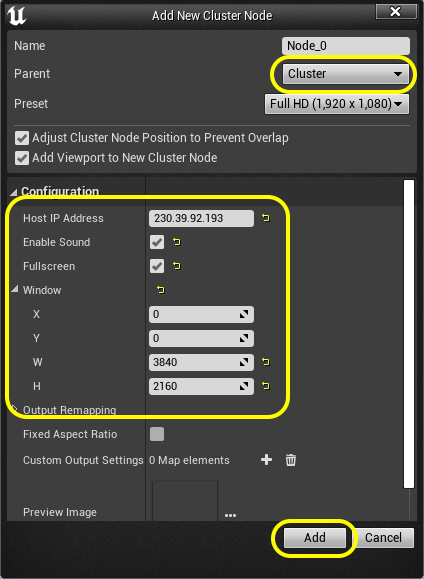
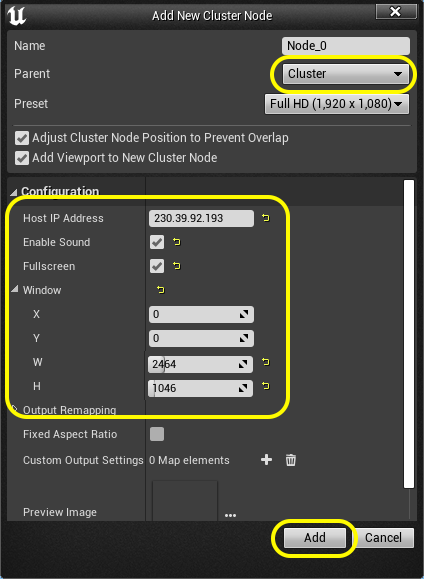
porting walk through

Changed region(s): [[0.3373, 0.5907, 0.6132, 0.6839]]

diff --git a/ndisplay-config/README.md b/ndisplay-config/README.md
@@ -90,9 +90,9 @@ Since our resolution is less than a 4K screen we can use a single cluster node t
 
 ##### `Step 10.`\|`BTS`| :large_blue_diamond:
 
-You can leave the the node named **Node_0**). Make sure the **Parent** is set **Cluster**. The **ip** of our main machine is `230.39.92.193`.  **Enable Sound** and enable **Full Screen**.  Set the **W** of the screen to 3840 pixels 176 pixels square per panel.
+You can leave the the node named **Node_0**). Make sure the **Parent** is set **Cluster**. The **ip** of our main machine is `230.39.92.193`.  **Enable Sound** and enable **Full Screen**.  Set the **W** of the screen to `2464` abd **H** of `1046`.  The Roe panels are pixels 176 pixels square per panel. We have a grid of 14 tiles wide by 6 tiles tall, thus giving us a resolution between 2K and 3K. Press the <kbd>Add</kbd> key.
 
-![alt_text](images/node0Settings.png)
+![enter new cluster node settings](images/node0Settings.png)
 
 <img src="https://via.placeholder.com/500x2/45D7CA/45D7CA" alt="drawing" height="2px" alt = ""/>
 
